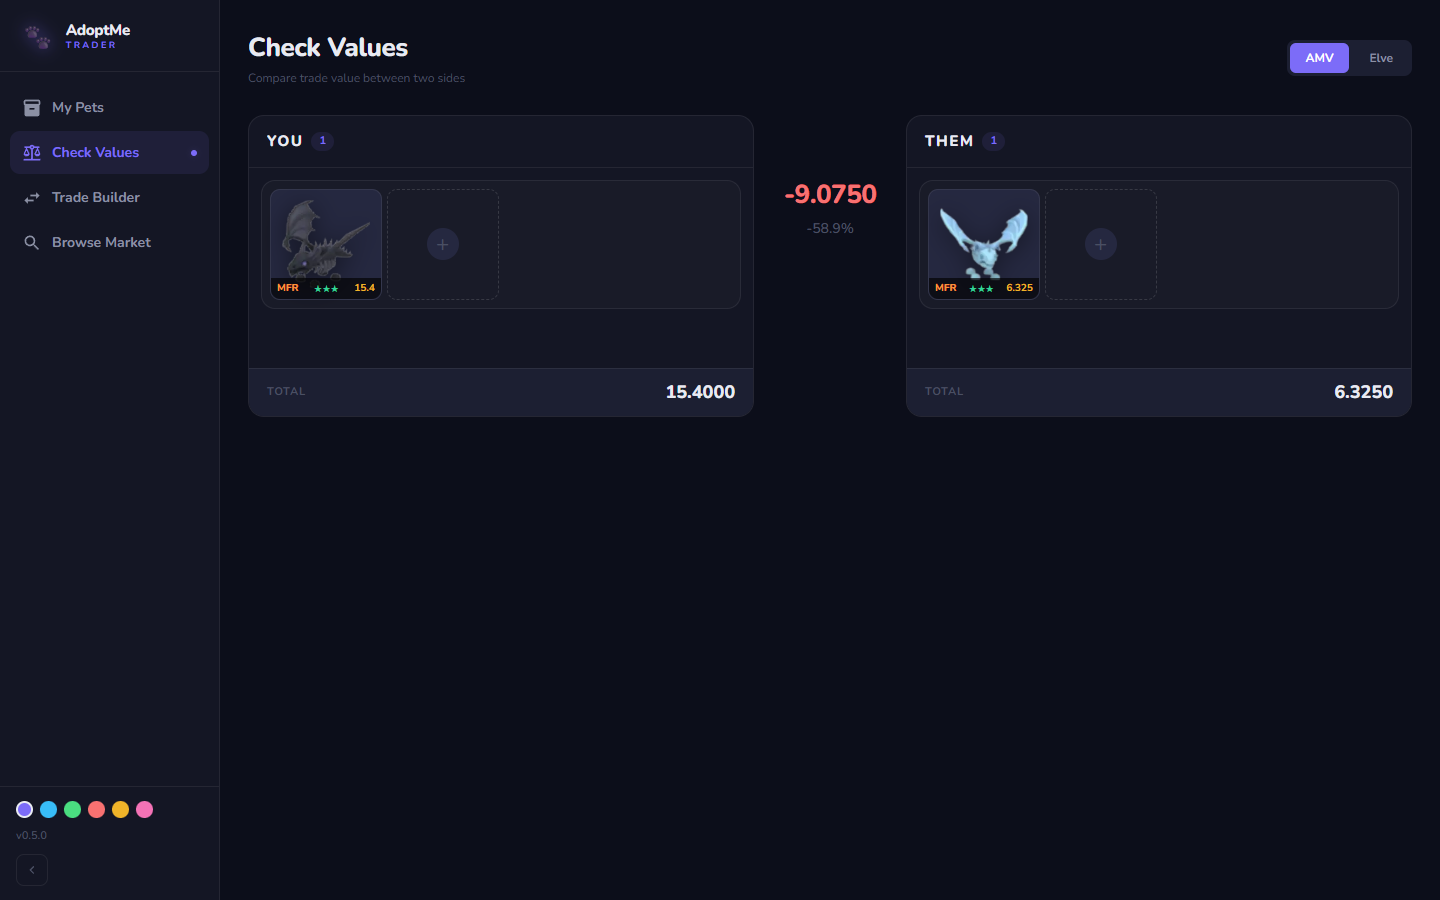
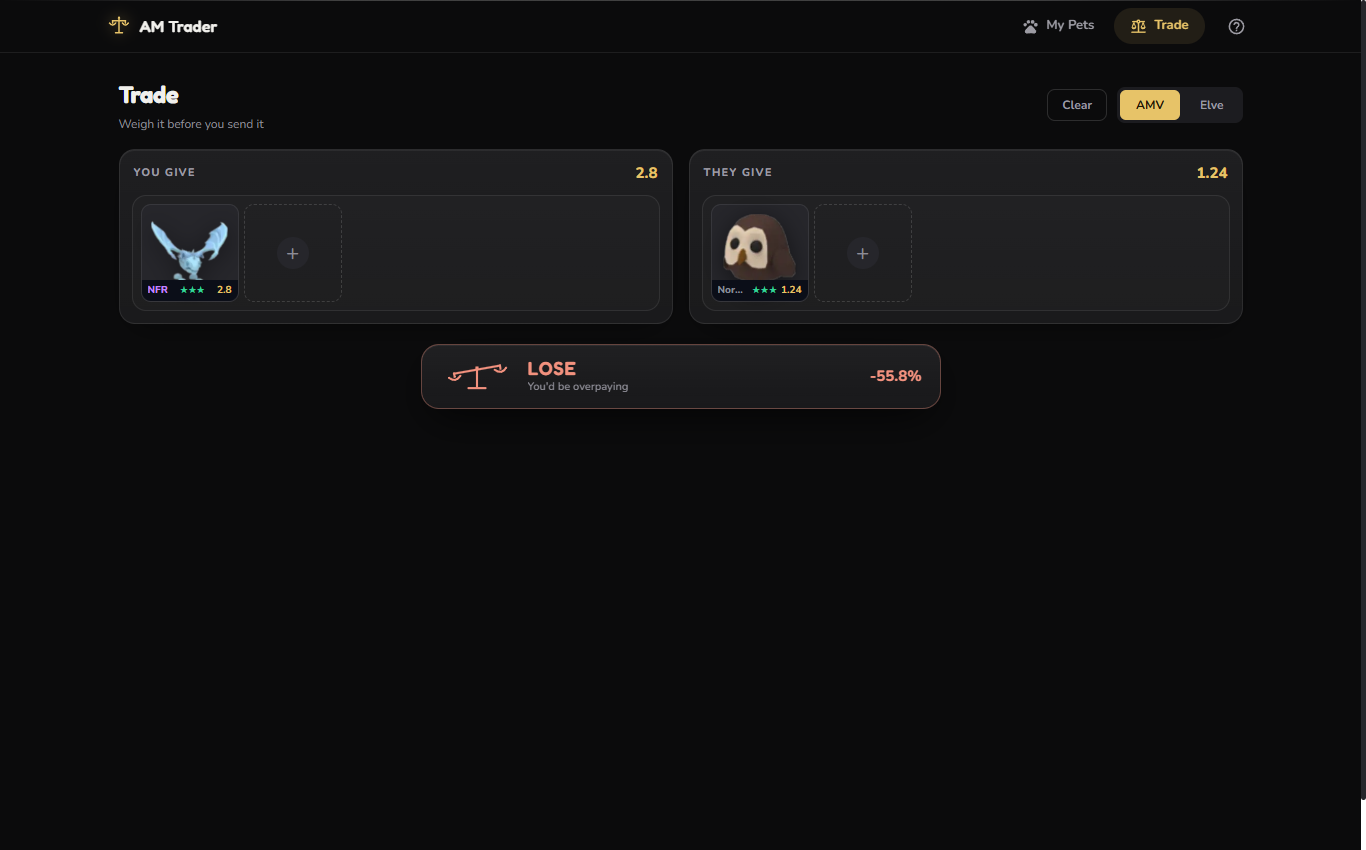
docs: reflejar el rediseño mobile-first y la baja de Trade Builder
CLAUDE.md (componentes clave, roadmap con Fase 2.7, theming de un solo tema),
README (2 pantallas, screenshots regenerados de la UI nueva) y PLAN.md (nota
completa de la Fase 2.7 con el diagnostico, las decisiones y la verificacion).

diff --git a/CLAUDE.md b/CLAUDE.md
@@ -61,20 +61,21 @@ All `/api/*` endpoints are public — the app has no authentication. They all se
 
 ### Key files
 
-- `src/types.ts` — `PetForm` union, `ValueSource`, `FORM_LABELS`, the four form-colour maps (see below), `InventoryPet`, `PetSuggestion`
+- `src/types.ts` — `PetForm` union, `ValueSource`, `FORM_LABELS`, the four form-colour maps (see below), `InventoryPet`
 - `src/stores/inventory.ts` — CRUD for `InventoryPet[]`, persisted to `localStorage`
 - `src/stores/values.ts` — In-memory value cache + `DemandLevel` type + `PetDetails` interface; wraps API fetch calls; `getBatch` for bulk pre-loading
-- `src/components/PetPicker.vue` — **the** pet/item picker dialog. Props: `mine` (omit for a search-only picker, e.g. the THEM side), `mineLabel`, `mineEmptyText`. Emits `add` with a `PickerSelection`. Owns its toast, its value pre-fetch, its keyboard handling (autofocus, ↑↓, Enter, Esc) and its mobile full-screen sheet (`maximized` below Quasar's `sm`). Used by Trade Builder + Check Values (both sides) — add new "add a pet to a list" surfaces here, not by copy-pasting
-- `src/components/FormChips.vue` — F/R/D/N/M toggle with `v-model:PetForm` (wraps `useFormPicker`); used by `PetPicker` and the Inventory add-pet dialog
-- `src/components/SourceToggle.vue` — **the** AMV/Elve switch, `v-model:ValueSource`. Used by all three pages; owns its markup, CSS and ARIA. Don't inline another one
-- `src/components/SkeletonBar.vue` — shimmer placeholder shaped like the text it stands in for (`width` prop, height = 1em). Use it for values that are loading; keep `q-spinner` only where the user triggered an action (search, "Find matches")
-- `src/components/PetImage.vue` — every pet/item thumbnail. Tries the direct AMVGG sprite URL, falls back to `/api/pet/image` (which scrapes + caches), then to an emoji that keeps the element's box. Takes `name` + optional `fallback` emoji; sizing comes from the class the caller passes. Never write a raw `<img src="https://amvgg.com/items/...">` again
+- `src/components/PetPicker.vue` — **the** pet/item picker dialog. Props: `mine` (omit for a search-only picker, e.g. the THEM side), `mineLabel`, `mineEmptyText`. Emits `add` with a `PickerSelection`. Owns its toast, its value pre-fetch, its keyboard handling (autofocus, ↑↓, Enter, Esc) and its mobile full-screen sheet (`maximized` below Quasar's `sm`). Used by the Trade page (both sides) — add new "add a pet to a list" surfaces here, not by copy-pasting
+- `src/components/FormChips.vue` — F/R/D/N/M toggle with `v-model:PetForm` (wraps `useFormPicker`); used by `PetPicker`, the Inventory add-pet dialog and the pet detail sheet
+- `src/components/SourceToggle.vue` — **the** AMV/Elve switch, `v-model:ValueSource`. Used by both pages; owns its markup, CSS and ARIA. Don't inline another one
+- `src/components/SkeletonBar.vue` — shimmer placeholder shaped like the text it stands in for (`width` prop, height = 1em). Use it for values that are loading; keep `q-spinner` only where the user triggered an action (search)
+- `src/components/PetImage.vue` — every pet/item thumbnail. Tries the direct AMVGG sprite URL, falls back to `/api/pet/image` (which scrapes + caches), then to a Material icon that keeps the element's box. Takes `name` + optional `fallback` icon; sizing comes from the class the caller passes. Never write a raw `<img src="https://amvgg.com/items/...">` again
+- `src/utils/format.ts` — `formatValue` (every value the UI prints: ≤2 decimals, no float noise) + `demandStars`/`demandClass`. Never print a raw value
 - `src/composables/useFormPicker.ts` — 5-button F/R/D/N/M toggle that derives `PetForm` from booleans; wrapped by `FormChips.vue`
-- `src/composables/useTheme.ts` — 5 color themes (Midnight/Ocean/Forest/Crimson/Dusk); persisted to `localStorage`, applied via `data-theme` on `<html>`
-- `src/pages/InventoryPage.vue` — Pet cards with form badge, quantity, lazy value fetch
-- `src/pages/CheckValuesPage.vue` — Two-sided value comparison (YOU vs THEM); supports AMVGG and Elvebredd sources; shows demand ★ per slot; YOU picker has "My Pets" (sorted by value) + "Other" tabs; THEM picker has "Other" tab only (search)
-- `src/pages/TradeBuilderPage.vue` — Offered pets + form selector + demand-adjusted fairness score (reflects the selected suggestion under the active value source) + suggestions with adjustable match tolerance (±5/10/20%, default 20, persisted); My Pets picker sorted by cached value. Consultative only (no trade posting)
-- `src/layouts/MainLayout.vue` — Sidebar nav (My Pets, Check Values, Trade Builder) + theme swatch picker + collapse
+- `src/composables/useTheme.ts` — parked: the 6 colour themes were retired with the Premium re-skin (one dark identity); kept for a future light pair
+- `src/pages/InventoryPage.vue` — portfolio hero (collection total, source toggle, CTAs) + dense tile grid; tapping a tile opens a bottom detail sheet (both values, demand, form editing via `FormChips`, remove with undo). All actions live in the sheet — no hover reveals
+- `src/pages/CheckValuesPage.vue` — the **Trade** page (route stays `/check-values`): "You give / They give" panels + the Fair Scale verdict card (sticky, beam tips toward the heavier side, WIN/FAIR/LOSE within ±5%)
+- `src/layouts/MainLayout.vue` — app shell: sticky blurred top bar (brand, desktop nav pills, help) + bottom tab bar on <768px (My Pets, Trade). No drawer
+- `src/stores/drafts.ts` — persisted Trade-page sides + source (Pinia + localStorage, `hydrate()` on mount)
 - `src-ssr/middlewares/api.ts` — All API handlers, AMVGG/Elvebredd cache warming
 - `scripts/fetch-values.mjs` — Pre-fetch script: fetches AMVGG (Node fetch) + Elvebredd (curl) and saves to `src/data/*.json`
 - `scripts/snapshot-values.mjs` — Writes a compact daily snapshot (`{date, amv:{name:fr}, elve:{name:fr}}`) to `src/data/history/YYYY-MM-DD.json`; idempotent per UTC day, refuses to write if both sources are empty. Raw material for Phase 5 value trends. Not loaded by the server yet.
@@ -106,7 +107,7 @@ never by convenience — a fill and a label cannot share a hex:
 - A `normal` pet and a non-pet item get **no** form colour. Tinting everything is
   tinting nothing.
 - `color-mix()` is unavailable: the browser targets are chrome87 / safari13.1.
-- **AA is a hard floor: 4.5:1 for every text, in all six themes.** `--text-3` was
+- **AA is a hard floor: 4.5:1 for every text.** `--text-3` was
   lifted for exactly this; it now sits close to `--text-2` on purpose, and the
   hierarchy is carried by size/weight/case. `.slot-meta` is an *opaque* plate so
   its contrast can't depend on the sprite behind it.
@@ -135,7 +136,7 @@ All of this lives in `src/css/app.scss`. Follow it when adding UI:
 
 ### Theming
 
-CSS custom properties on `:root` in `src/css/app.scss`. Themes override the same variables via `[data-theme="ocean"]` etc. on `<html>`. Only colors are theme-specific.
+CSS custom properties on `:root` in `src/css/app.scss` — one dark identity (neutral black + gold), no theme switching. The old `data-theme` variants were retired with the Premium re-skin (2026-07-11); `useTheme.ts` stays parked for a future light pair.
 
 ### Deployment
 
@@ -161,4 +162,6 @@ Manual (local) update, if ever needed:
 - **Phase 1.5 (done):** Elvebredd cross-check in Check Values; color themes
 - **Phase 1.8 (done):** SSR migration to Fly.io; static value cache; Elve values in trade cards; non-pet item categories (Pet Wear, Eggs, Strollers, Food, Vehicles, Toys, Gifts, Stickers, Houses)
 - **Phase 2 (done, 2026-07-10):** public-ready cleanup — advanced mode removed, `PetPicker`/`FormChips`/`SourceToggle` unified, skeletons, undo, responsive pass, hover/touch fixes, 44px touch targets, the three page states, basic a11y, WCAG AA contrast. See `docs/PLAN.md`
-- **Phase 2.5 (in progress):** visual identity. Done: per-form colour on cards, Fredoka display face, AA. Left: logo/mascot, final name, trader-voice microcopy, emoji→Material icons. Run the `/frontend-design` skill first
+- **Phase 2.5 (done, 2026-07-12):** visual identity — per-form colour on cards, Fredoka display face, AA, Premium re-skin (dark + gold), "The Fair Scale" logo, "AM Trader" name, trader-voice microcopy, Material icons
+- **Phase 2.7 (done, 2026-07-12):** mobile-first redesign — bottom tab bar shell (drawer removed), portfolio-style My Pets with tile grid + detail sheet, Trade page with the Fair Scale verdict card. **Trade Builder removed** (`/trade-builder` redirects to `/check-values`); its value never justified its surface and the Trade page owns the fairness verdict now
+- **Next: Phase 3 (growth):** share links + OG images, public quick WFL, per-pet SSR pages. Fix the blank-page 404 first — see `docs/PLAN.md`

diff --git a/README.md b/README.md
@@ -10,13 +10,13 @@ A trade manager for **Roblox Adopt Me** that helps players value pets and judge 
 
 ## Screenshots
 
-**My Pets** — inventory with per-form values, demand ratings, and a running total.
+**My Pets** — portfolio-style inventory: collection total up top, dense tile grid, tap a pet for details.
 
 ![My Pets](docs/screenshots/my-pets.png)
 
-**Check Values** — two-sided comparison with the value gap and a fairness verdict.
+**Trade** — "you give / they give" with the Fair Scale: the beam tips toward the heavier side and calls WIN / FAIR / LOSE.
 
-![Check Values](docs/screenshots/check-values.png)
+![Trade](docs/screenshots/check-values.png)
 
 ---
 
@@ -24,10 +24,10 @@ A trade manager for **Roblox Adopt Me** that helps players value pets and judge 
 
 Trading in Adopt Me is all about *value* and *demand*, and the numbers live across a few community sites that don't agree with each other. This app pulls them into one place:
 
-- **My Pets** — Build your inventory (pets + non-pet items like Pet Wear, Eggs, Vehicles…). Each card shows its value for the selected form and a demand rating. Total inventory value, sortable by worth.
-- **Check Values** — Two-sided comparison (YOU vs THEM). Pick pets on each side and see the value gap, per slot, switching between AMVGG and Elvebredd.
-- **Trade Builder** — Assemble an offer and get a demand-adjusted fairness score, plus pet suggestions within a ±20% tolerance to balance the trade.
-- **5 color themes**, persisted locally.
+- **My Pets** — Build your inventory (pets + non-pet items like Pet Wear, Eggs, Vehicles…) and see the collection's total worth at a glance. Each tile shows the pet's value for its form and a demand rating; tapping one opens a detail sheet with both sources, demand, and form editing.
+- **Trade** — "You give / They give". Pick pets on each side and the Fair Scale weighs the trade live: the beam tips toward the heavier side and calls **WIN / FAIR / LOSE** with the exact percentage, switching between AMVGG and Elvebredd.
+
+The app is mobile-first (bottom tab navigation, installable as a PWA) and works the same on desktop.
 
 Pets come in **forms** (Fly / Ride / Neon / Mega and combinations), and each form has its own value — the app derives all of them from the base values using the same multiplier formula as the AMVGG calculator.
 
@@ -64,8 +64,8 @@ fetch('/api/...')      →      ratelimit → api → render
 
 ```
 src/
-  pages/        My Pets, Check Values, Trade Builder
-  stores/       Pinia: inventory (localStorage-backed) + values cache
+  pages/        My Pets, Trade (check values)
+  stores/       Pinia: inventory (localStorage-backed) + values cache + trade drafts
   composables/  form picker, theming
   data/         committed value caches (amv / elve / items) + history/ snapshots
 src-ssr/

diff --git a/docs/PLAN.md b/docs/PLAN.md
@@ -8,7 +8,35 @@ sin comprometerse.
 
 ## Estado (última actualización: 2026-07-12)
 
-**Fase 1 ✅ · Fase 1.5 ✅ · Fase 1.8 ✅ · Fase 2 ✅ · Fase 2.5 ✅.**
+**Fase 1 ✅ · Fase 1.5 ✅ · Fase 1.8 ✅ · Fase 2 ✅ · Fase 2.5 ✅ · Fase 2.7 (rediseño mobile-first) ✅.**
+
+**Fase 2.7 — rediseño mobile-first (2026-07-12, v0.6.0).** La PWA en el teléfono
+estaba incómoda (cards gigantes de una columna, drawer de escritorio, veredicto
+fuera de pantalla) y era frágil: un registro corrupto en localStorage mataba el
+render de toda la página en un falso "No pets in here yet". Se rehizo el shell y
+las dos pantallas con patrones de apps reales:
+- **Shell**: murió el drawer/hamburger → header sticky con blur (marca + nav pills
+  en desktop + ayuda) y **bottom tab bar** (My Pets / Trade) con safe-area.
+- **My Pets**: patrón portfolio (hero con total dorado en gradiente + count +
+  fuente) y **grilla de tiles densos** estilo inventario de juego (3 por fila en
+  390px). Tap en tile → **bottom sheet de detalle** (AMV + Elve + demand, editar
+  forma con FormChips, Remove con undo). Se acabaron los hover-reveals.
+- **Trade** (ex Check Values, la ruta se mantiene): "You give / They give" +
+  **la Fair Scale como veredicto**: card sticky siempre visible donde el fiel se
+  inclina hacia el lado más pesado y canta WIN/FAIR/LOSE (±5%) con el %. El logo
+  haciendo el trabajo de la app — el elemento firma del rediseño.
+- **Trade Builder eliminado** (decisión de producto de esta pasada): su mitad
+  consultiva quedó subsumida por el veredicto del Trade; `/trade-builder`
+  redirige a `/check-values`. El código vive en el historial de git. `drafts.ts`
+  perdió su slice y limpia los keys viejos de localStorage al hidratar.
+- **Fixes de fondo**: `formatValue()` único (≤2 decimales — se acabaron los
+  `1.2365`); `demandStars/demandClass` centralizados en `src/utils/format.ts`;
+  el store de inventario **corrige formas desconocidas a `normal` al cargar** y
+  `getFormBadges` degrada a "sin badges" en vez de crashear la grilla.
+- Verificado con Playwright a 390px y 1366px: flujo completo de trade (picker →
+  slots → veredicto LOSE −55.8% con beam inclinado), sheet de detalle, undo de
+  borrado, filtro de categorías, redirect viejo, guía. Lint + build SSR limpios.
+- Los screenshots del README se regeneraron con la UI nueva.
 
 Cerrado en la Fase 2: modo avanzado eliminado, errores amables, borradores
 persistidos, fix del router SSR, tooltips + "How it works", contraste y
